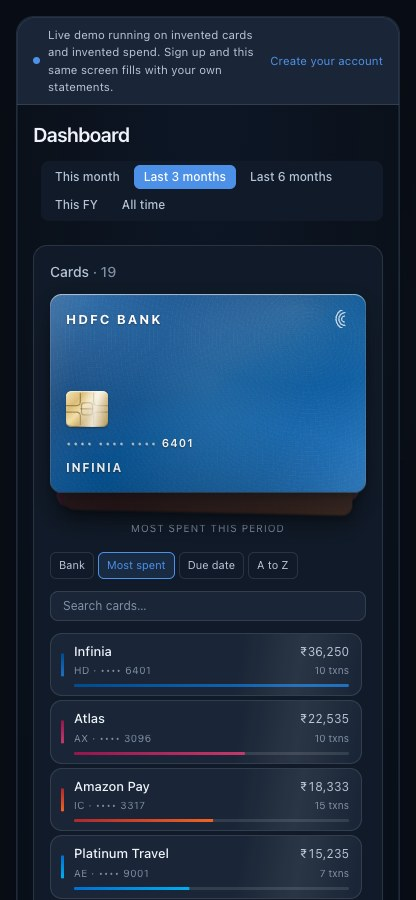
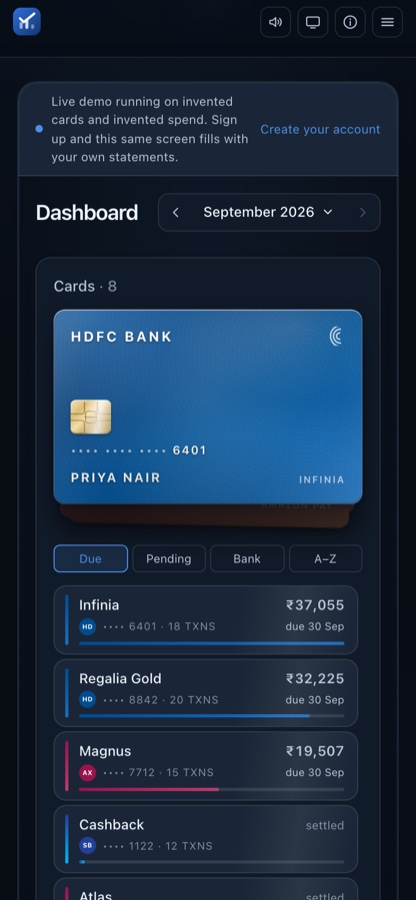
Update project descriptions for Outlay dashboard with improved clarity and detail

Changed region(s): [[0.0938, 0.28, 0.9062, 1.0], [0.0312, 0.0, 0.9688, 1.0], [0.5938, 0.9644, 0.625, 0.9956]]

diff --git a/src/lib/data.ts b/src/lib/data.ts
@@ -410,11 +410,11 @@ export const projects: Project[] = [
     year: "2026",
     shot: "/shots/outlay.jpg",
     shotAlt:
-      "The Outlay dashboard: nineteen cards ranked by spend, headline totals, a bills panel showing sixteen of eighteen settled this cycle with two overdue, six recurring charges detected, a spend trend chart and a category split donut",
+      "The Outlay dashboard: a month selector above eight cards ranked by what they billed this cycle, headline totals for due, billed spends and credits, a bills panel showing five of eight settled with the amount still outstanding, a chart of how the bill built up day by day and a category split donut",
     shotMobile: "/shots/outlay-mobile.jpg",
     shotMobileLabel: "the whole wallet, in a pocket",
     shotMobileAlt:
-      "Outlay on a phone: the featured credit card above a list of cards ranked by spend, each with its due date and outstanding amount",
+      "Outlay on a phone: the month selector, the card with the largest bill outstanding, and the rest of the wallet ranked by what each card is due, with amounts and due dates",
   },
   {
     name: "Investor Copilot",
